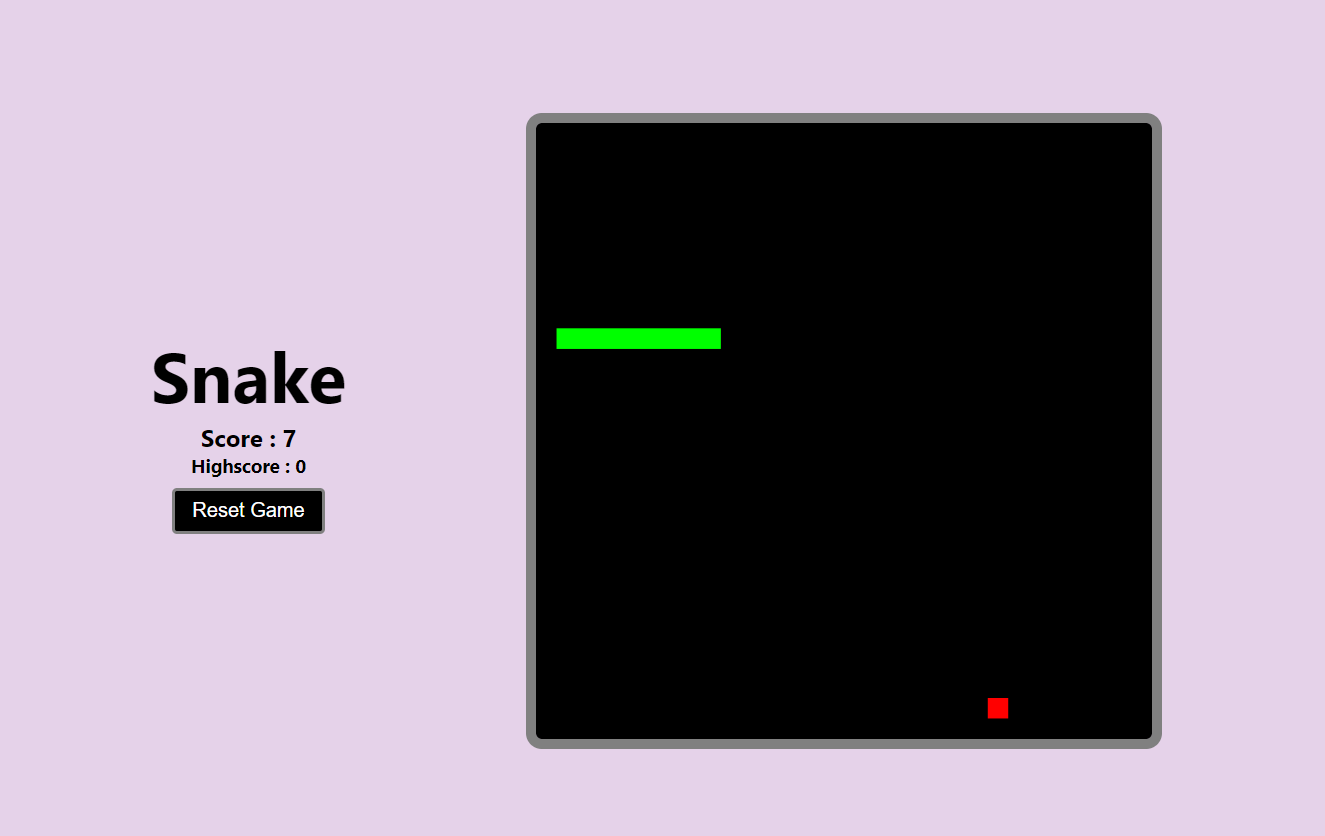
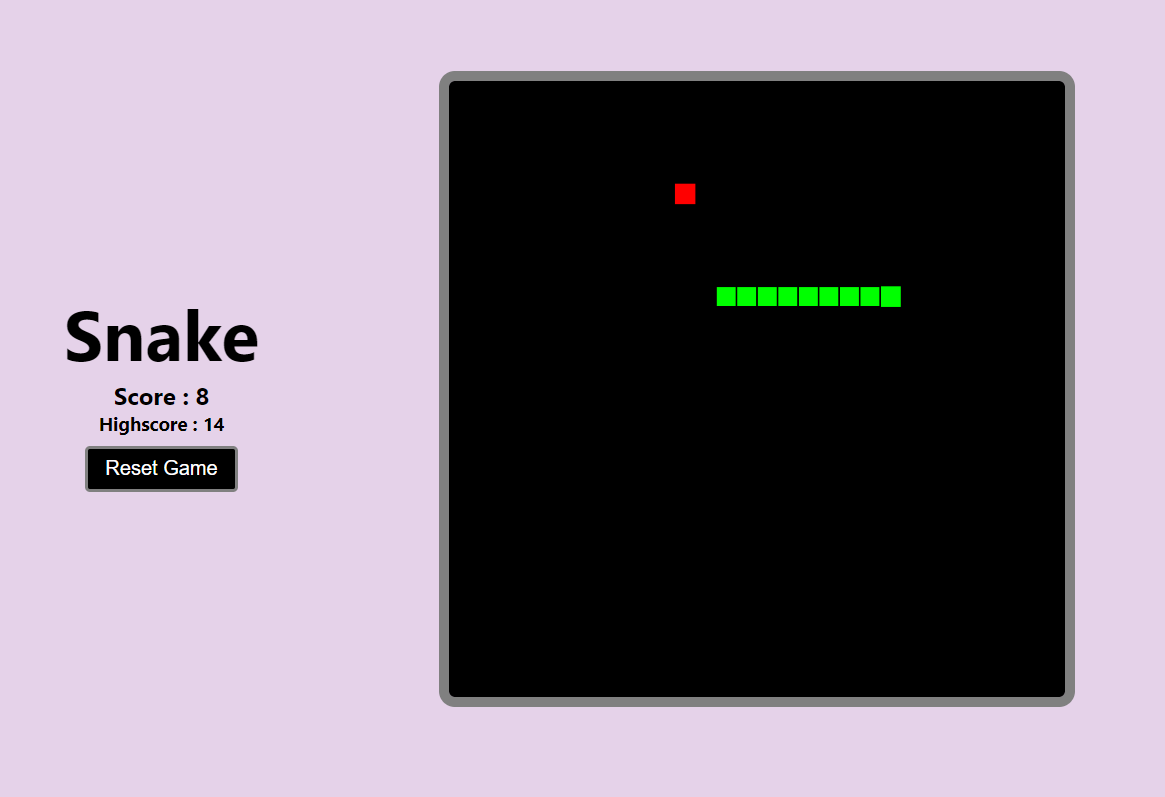
Adding outline to snake body squares

diff --git a/snake.js b/snake.js
@@ -85,7 +85,7 @@ function update() {
 
     context.fillRect(snakeX, snakeY, blockSize, blockSize);
     for (let i = 0; i < snakeBody.length; i++) {
-        context.fillRect(snakeBody[i][0], snakeBody[i][1], blockSize, blockSize);
+        drawSnakeSegment(snakeBody[i][0], snakeBody[i][1]);
     }
 
     // game over conditions
@@ -103,6 +103,14 @@ function update() {
             alert("Game Over");
         }
     }
+}
+
+function drawSnakeSegment(x, y) {
+    context.fillStyle = 'lime';
+    context.fillRect(x, y, blockSize, blockSize);
+    context.strokeStyle = 'black'; // Outline color
+    context.lineWidth = 2; // Outline width
+    context.strokeRect(x, y, blockSize, blockSize);
 }
 
 function placeFood() {
